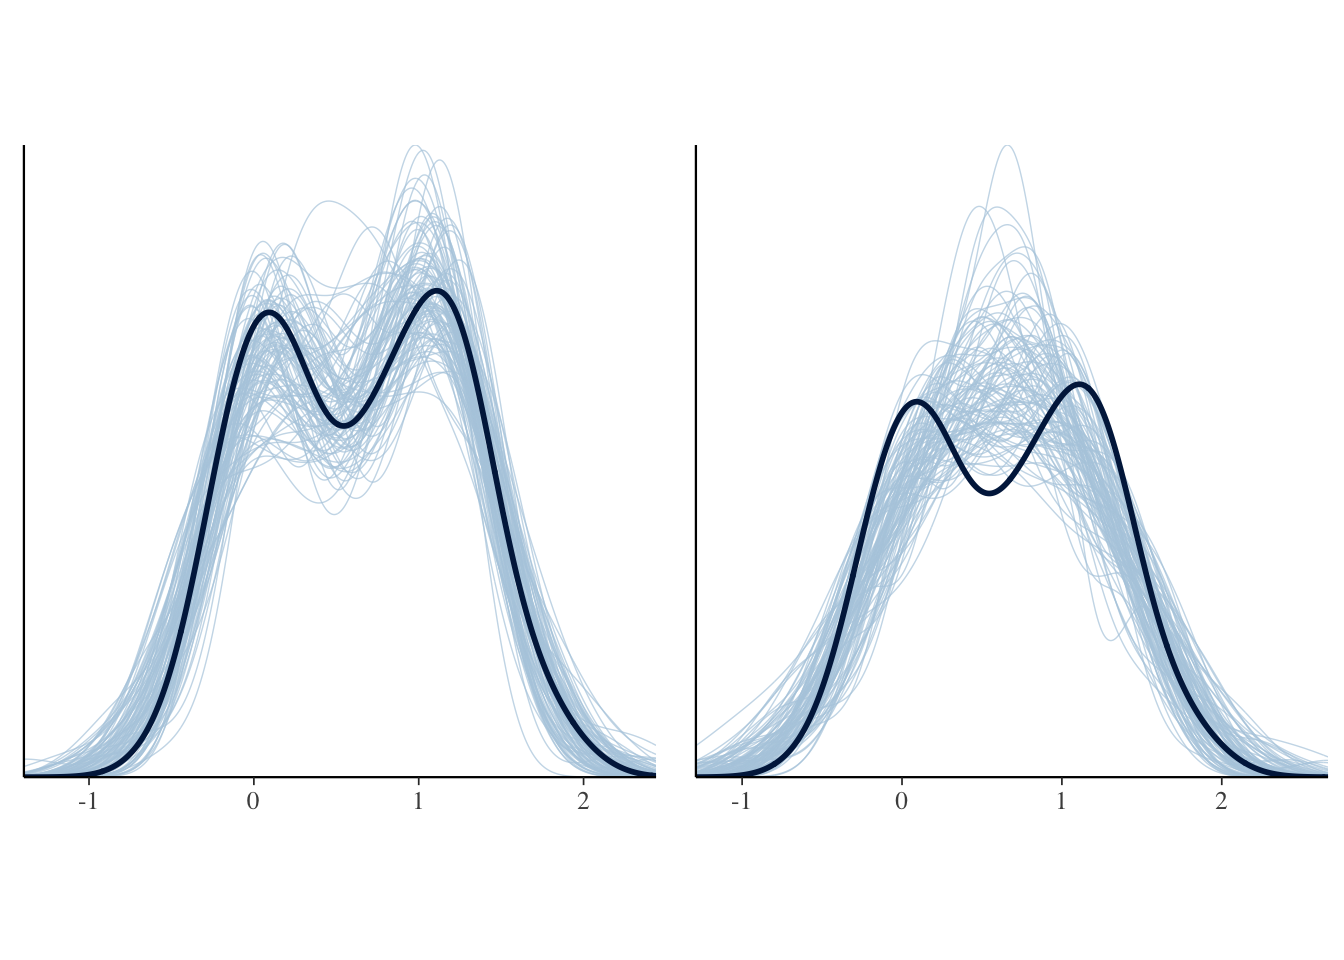
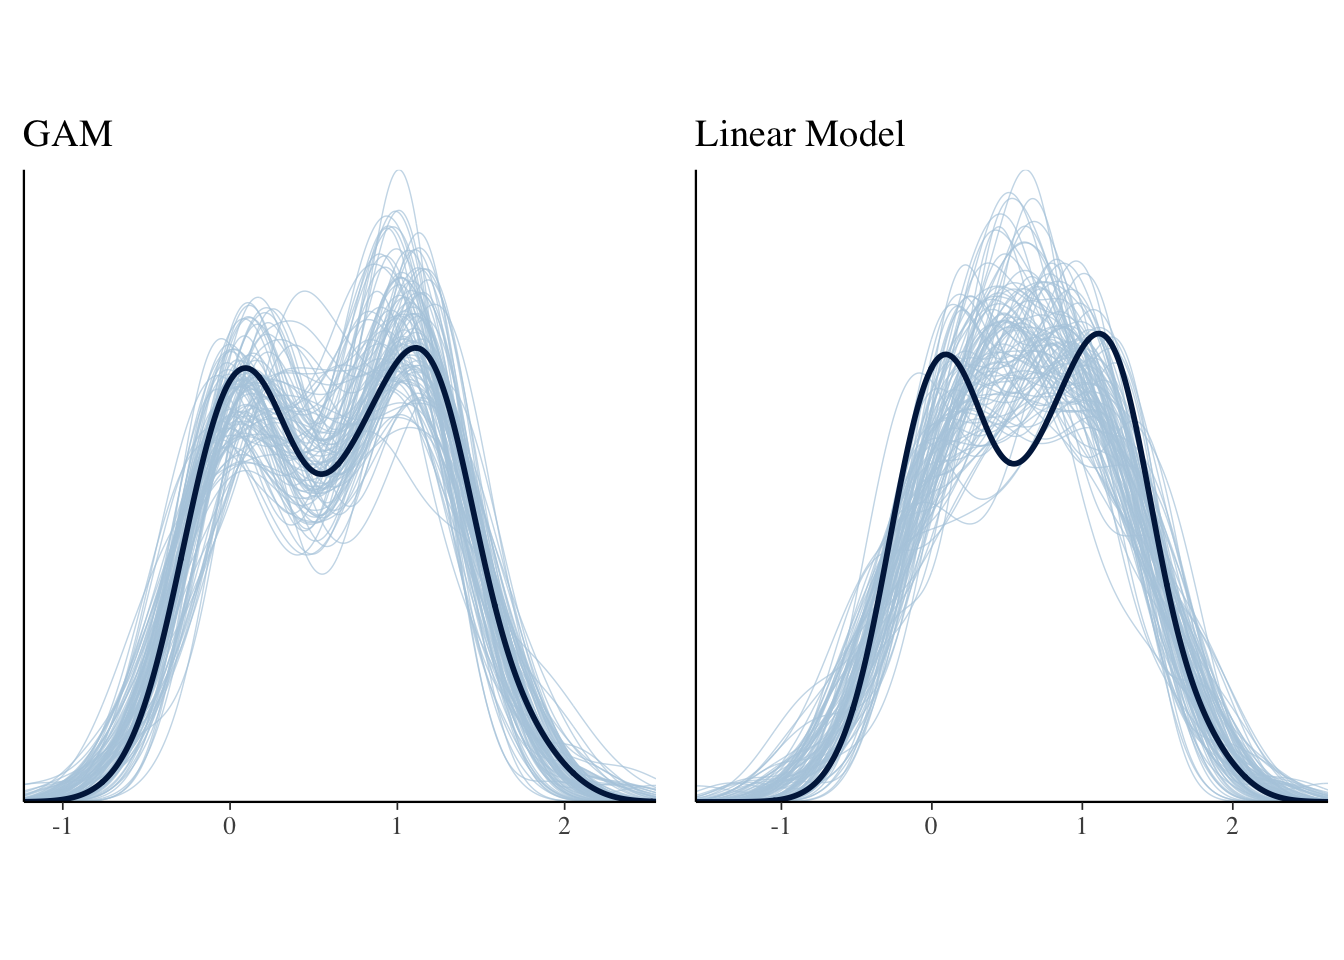
update

diff --git a/docs/blog-posts/blog-post-8.html b/docs/blog-posts/blog-post-8.html
@@ -313,7 +313,7 @@ d_i = \underset{_\textrm{intercept}}{b_0} + \overset{^\textrm{moderator effect}}
 \]</span> The first three terms in the equation is what defines the true effect size <span class="math inline">\(\delta_i\)</span> for study <span class="math inline">\(i\)</span> and the last term denotes sampling error which is what distinguishes the observed effect size <span class="math inline">\(d_i\)</span> from the true effect size <span class="math inline">\(\delta_i\)</span>. The true effect size is conditionally distributed as,</p>
 <p><span class="math display">\[
 \delta_i | M \sim \mathcal{N}\left(b_0 + b_1M_i\, ,\, \tau^2\right)
-\]</span> Where <span class="math inline">\(\tau^2\)</span> is the variance in true effects (i.e., <span class="math inline">\(\tau^2 = \mathrm{var}(u_i)\)</span>). We can see that the conditional expectation of true effects is a linear function of the moderator variable <span class="math inline">\(\mathbb{E}[\delta_i \mid M] = b_0 + b_1M_i\)</span>. But we don’t have to model the conditional mean as linear. We can model it as any arbitrary function <span class="math inline">\(f\)</span> such that the conditional mean has any functional form,</p>
+\]</span> Where <span class="math inline">\(\tau^2\)</span> is the residual variance in true effects (i.e., <span class="math inline">\(\tau^2 = \mathrm{var}(u_i)\)</span>). We can see that the conditional expectation of true effects is a linear function of the moderator variable <span class="math inline">\(\mathbb{E}[\delta_i \mid M] = b_0 + b_1M_i\)</span>. But we don’t have to model the conditional mean as linear. We can model it as any arbitrary function <span class="math inline">\(f\)</span> such that the conditional mean has any functional form,</p>
 <p><span class="math display">\[
 \delta_i | M \sim \mathcal{N}\left(f(M),\, \tau^2\right).
 \]</span></p>
@@ -427,7 +427,7 @@ d_i = \underset{_\textrm{intercept}}{b_0} + \overset{^\textrm{moderator effect}}
 <span id="cb12-22"><a href="#cb12-22" aria-hidden="true" tabindex="-1"></a>  <span class="fu">geom_point</span>(<span class="at">data =</span> dat,<span class="fu">aes</span>(<span class="at">size =</span> <span class="dv">1</span><span class="sc">/</span>sei<span class="sc">^</span><span class="dv">2</span>), <span class="at">alpha =</span> .<span class="dv">5</span>) <span class="sc">+</span></span>
 <span id="cb12-23"><a href="#cb12-23" aria-hidden="true" tabindex="-1"></a>  <span class="fu">scale_fill_brewer</span>(<span class="at">palette =</span> <span class="st">"Greys"</span>) <span class="sc">+</span></span>
 <span id="cb12-24"><a href="#cb12-24" aria-hidden="true" tabindex="-1"></a>  <span class="fu">scale_color_brewer</span>(<span class="at">palette =</span> <span class="st">"Set2"</span>) <span class="sc">+</span></span>
-<span id="cb12-25"><a href="#cb12-25" aria-hidden="true" tabindex="-1"></a>  <span class="fu">theme_ggdist</span>(<span class="at">base_size =</span> <span class="dv">14</span>) <span class="sc">+</span> </span>
+<span id="cb12-25"><a href="#cb12-25" aria-hidden="true" tabindex="-1"></a>  <span class="fu">theme_ggdist</span>(<span class="at">base_size =</span> <span class="dv">15</span>) <span class="sc">+</span> </span>
 <span id="cb12-26"><a href="#cb12-26" aria-hidden="true" tabindex="-1"></a>  <span class="fu">theme</span>(<span class="at">legend.position =</span> <span class="st">"none"</span>,</span>
 <span id="cb12-27"><a href="#cb12-27" aria-hidden="true" tabindex="-1"></a>        <span class="at">aspect.ratio =</span> .<span class="dv">8</span>) <span class="sc">+</span></span>
 <span id="cb12-28"><a href="#cb12-28" aria-hidden="true" tabindex="-1"></a>  <span class="fu">ylab</span>(<span class="st">"Effect Size"</span>) <span class="sc">+</span></span>
@@ -435,7 +435,7 @@ d_i = \underset{_\textrm{intercept}}{b_0} + \overset{^\textrm{moderator effect}}
 <span id="cb12-30"><a href="#cb12-30" aria-hidden="true" tabindex="-1"></a>  <span class="fu">ggtitle</span>(<span class="st">"Linear model"</span>)</span>
 <span id="cb12-31"><a href="#cb12-31" aria-hidden="true" tabindex="-1"></a></span>
 <span id="cb12-32"><a href="#cb12-32" aria-hidden="true" tabindex="-1"></a></span>
-<span id="cb12-33"><a href="#cb12-33" aria-hidden="true" tabindex="-1"></a>cowplot<span class="sc">::</span><span class="fu">plot_grid</span>(p1,p2)</span></code><button title="Copy to Clipboard" class="code-copy-button"><i class="bi"></i></button></pre></div>
+<span id="cb12-33"><a href="#cb12-33" aria-hidden="true" tabindex="-1"></a>cowplot<span class="sc">::</span><span class="fu">plot_grid</span>(p1,p2,<span class="at">ncol =</span> <span class="dv">1</span>)</span></code><button title="Copy to Clipboard" class="code-copy-button"><i class="bi"></i></button></pre></div>
 <div class="cell-output-display">
 <div>
 <figure class="figure">
@@ -454,7 +454,7 @@ d_i = \underset{_\textrm{intercept}}{b_0} + \overset{^\textrm{moderator effect}}
 <span id="cb13-6"><a href="#cb13-6" aria-hidden="true" tabindex="-1"></a>  <span class="fu">geom_point</span>(<span class="at">data =</span> dat,<span class="fu">aes</span>(<span class="at">size =</span> <span class="dv">1</span><span class="sc">/</span>sei<span class="sc">^</span><span class="dv">2</span>), <span class="at">alpha =</span> .<span class="dv">5</span>) <span class="sc">+</span></span>
 <span id="cb13-7"><a href="#cb13-7" aria-hidden="true" tabindex="-1"></a>  <span class="fu">scale_fill_brewer</span>(<span class="at">palette =</span> <span class="st">"Greys"</span>) <span class="sc">+</span></span>
 <span id="cb13-8"><a href="#cb13-8" aria-hidden="true" tabindex="-1"></a>  <span class="fu">scale_color_brewer</span>(<span class="at">palette =</span> <span class="st">"Set2"</span>) <span class="sc">+</span></span>
-<span id="cb13-9"><a href="#cb13-9" aria-hidden="true" tabindex="-1"></a>  <span class="fu">theme_ggdist</span>(<span class="at">base_size =</span> <span class="dv">14</span>) <span class="sc">+</span> </span>
+<span id="cb13-9"><a href="#cb13-9" aria-hidden="true" tabindex="-1"></a>  <span class="fu">theme_ggdist</span>(<span class="at">base_size =</span> <span class="dv">15</span>) <span class="sc">+</span> </span>
 <span id="cb13-10"><a href="#cb13-10" aria-hidden="true" tabindex="-1"></a>  <span class="fu">theme</span>(<span class="at">legend.position =</span> <span class="st">"none"</span>,</span>
 <span id="cb13-11"><a href="#cb13-11" aria-hidden="true" tabindex="-1"></a>        <span class="at">aspect.ratio =</span> .<span class="dv">8</span>) <span class="sc">+</span></span>
 <span id="cb13-12"><a href="#cb13-12" aria-hidden="true" tabindex="-1"></a>  <span class="fu">ylab</span>(<span class="st">"Effect Size"</span>) <span class="sc">+</span></span>
@@ -478,7 +478,7 @@ d_i = \underset{_\textrm{intercept}}{b_0} + \overset{^\textrm{moderator effect}}
 <span id="cb13-30"><a href="#cb13-30" aria-hidden="true" tabindex="-1"></a>  <span class="fu">ggtitle</span>(<span class="st">"Linear Model"</span>)</span>
 <span id="cb13-31"><a href="#cb13-31" aria-hidden="true" tabindex="-1"></a></span>
 <span id="cb13-32"><a href="#cb13-32" aria-hidden="true" tabindex="-1"></a></span>
-<span id="cb13-33"><a href="#cb13-33" aria-hidden="true" tabindex="-1"></a>cowplot<span class="sc">::</span><span class="fu">plot_grid</span>(p3,p4)</span></code><button title="Copy to Clipboard" class="code-copy-button"><i class="bi"></i></button></pre></div>
+<span id="cb13-33"><a href="#cb13-33" aria-hidden="true" tabindex="-1"></a>cowplot<span class="sc">::</span><span class="fu">plot_grid</span>(p3,p4,<span class="at">ncol=</span><span class="dv">1</span>)</span></code><button title="Copy to Clipboard" class="code-copy-button"><i class="bi"></i></button></pre></div>
 <div class="cell-output-display">
 <div>
 <figure class="figure">
@@ -493,12 +493,14 @@ d_i = \underset{_\textrm{intercept}}{b_0} + \overset{^\textrm{moderator effect}}
 <p>The predictive check of the GAM model captures the data better than the linear model in this data set.</p>
 <div class="cell">
 <div class="sourceCode cell-code" id="cb14"><pre class="sourceCode r code-with-copy"><code class="sourceCode r"><span id="cb14-1"><a href="#cb14-1" aria-hidden="true" tabindex="-1"></a>pp1 <span class="ot">&lt;-</span> <span class="fu">pp_check</span>(mdl_gam, <span class="at">ndraws =</span> <span class="dv">100</span>) <span class="sc">+</span></span>
-<span id="cb14-2"><a href="#cb14-2" aria-hidden="true" tabindex="-1"></a>  <span class="fu">theme</span>(<span class="at">aspect.ratio =</span> <span class="dv">1</span>, <span class="at">legend.position =</span> <span class="st">"none"</span>)</span>
-<span id="cb14-3"><a href="#cb14-3" aria-hidden="true" tabindex="-1"></a>pp2 <span class="ot">&lt;-</span> <span class="fu">pp_check</span>(mdl_lm, <span class="at">ndraws =</span> <span class="dv">100</span>) <span class="sc">+</span></span>
-<span id="cb14-4"><a href="#cb14-4" aria-hidden="true" tabindex="-1"></a>  <span class="fu">theme</span>(<span class="at">aspect.ratio =</span> <span class="dv">1</span>, <span class="at">legend.position =</span> <span class="st">"none"</span>)</span>
-<span id="cb14-5"><a href="#cb14-5" aria-hidden="true" tabindex="-1"></a></span>
-<span id="cb14-6"><a href="#cb14-6" aria-hidden="true" tabindex="-1"></a></span>
-<span id="cb14-7"><a href="#cb14-7" aria-hidden="true" tabindex="-1"></a>cowplot<span class="sc">::</span><span class="fu">plot_grid</span>(pp1,pp2)</span></code><button title="Copy to Clipboard" class="code-copy-button"><i class="bi"></i></button></pre></div>
+<span id="cb14-2"><a href="#cb14-2" aria-hidden="true" tabindex="-1"></a>  <span class="fu">theme</span>(<span class="at">aspect.ratio =</span> <span class="dv">1</span>, <span class="at">legend.position =</span> <span class="st">"none"</span>) <span class="sc">+</span></span>
+<span id="cb14-3"><a href="#cb14-3" aria-hidden="true" tabindex="-1"></a>  <span class="fu">ggtitle</span>(<span class="st">"GAM"</span>)</span>
+<span id="cb14-4"><a href="#cb14-4" aria-hidden="true" tabindex="-1"></a>pp2 <span class="ot">&lt;-</span> <span class="fu">pp_check</span>(mdl_lm, <span class="at">ndraws =</span> <span class="dv">100</span>) <span class="sc">+</span></span>
+<span id="cb14-5"><a href="#cb14-5" aria-hidden="true" tabindex="-1"></a>  <span class="fu">theme</span>(<span class="at">aspect.ratio =</span> <span class="dv">1</span>, <span class="at">legend.position =</span> <span class="st">"none"</span>) <span class="sc">+</span></span>
+<span id="cb14-6"><a href="#cb14-6" aria-hidden="true" tabindex="-1"></a>  <span class="fu">ggtitle</span>(<span class="st">"Linear Model"</span>)</span>
+<span id="cb14-7"><a href="#cb14-7" aria-hidden="true" tabindex="-1"></a></span>
+<span id="cb14-8"><a href="#cb14-8" aria-hidden="true" tabindex="-1"></a></span>
+<span id="cb14-9"><a href="#cb14-9" aria-hidden="true" tabindex="-1"></a>cowplot<span class="sc">::</span><span class="fu">plot_grid</span>(pp1,pp2)</span></code><button title="Copy to Clipboard" class="code-copy-button"><i class="bi"></i></button></pre></div>
 <div class="cell-output-display">
 <div>
 <figure class="figure">

diff --git a/docs/blog.html b/docs/blog.html
@@ -481,7 +481,7 @@ Sep 2, 2024
 </div>
 </a>
 </div>
-<div class="g-col-1" data-index="7" data-categories="Generalized Additive Models,Meta-regression" data-listing-date-sort="1727150400000" data-listing-file-modified-sort="1727224124510" data-listing-date-modified-sort="NaN" data-listing-reading-time-sort="7" data-listing-word-count-sort="1344">
+<div class="g-col-1" data-index="7" data-categories="Generalized Additive Models,Meta-regression" data-listing-date-sort="1727150400000" data-listing-file-modified-sort="1727233535326" data-listing-date-modified-sort="NaN" data-listing-reading-time-sort="7" data-listing-word-count-sort="1354">
 <a href="./blog-posts/blog-post-8.html" class="quarto-grid-link">
 <div class="quarto-grid-item card h-100 card-left">
 <div class="card-body post-contents">
